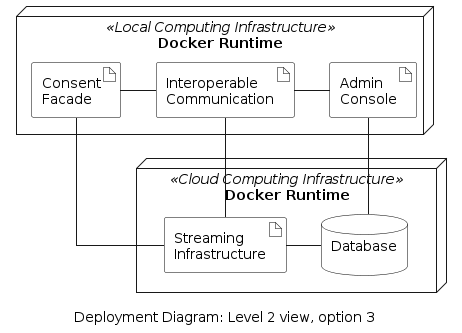
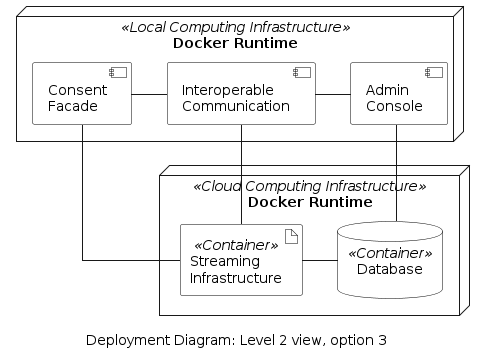
Adapt comp/artifacts and add directions to figures

Changed region(s): [[0.0303, 0.0, 0.9697, 0.9009], [0.1515, 0.9309, 0.8182, 0.991], [0.697, 0.8108, 0.9091, 0.8408]]

diff --git a/arc42/06-runtime-view/index.md b/arc42/06-runtime-view/index.md
@@ -26,7 +26,7 @@ The runtime view focuses on interactions among the system's components. The goal
 
 | Workflow | Involved Actors | Involved Components | Section | 
 |-|-|-|-|
-| Eligible party registration to MDA | Eligible party | Admin console, consent admin portal, interoperable communication | [Link](./admin-process/eligible-party-registration.md) |
-| Eligible party gets historical validated data | Consumer, eligible party | Consent Facade, Consent Admin Portal, Meter Data Portal, Interoperable Communication  | [Link](./data-flow/eligible-party-gets-historical-data.md) |
+| Eligible party registration to MDA | Eligible party | Admin console, consent admin portal, interoperable communication | [Link](./eligible-party-registration/eligible-party-registration.md) |
+| Eligible party gets historical validated data | Consumer, eligible party | Consent Facade, Consent Admin Portal, Meter Data Portal, Interoperable Communication  | [Link](./eligible-party-gets-historical-data/eligible-party-gets-historical-data.md) |
 
 
